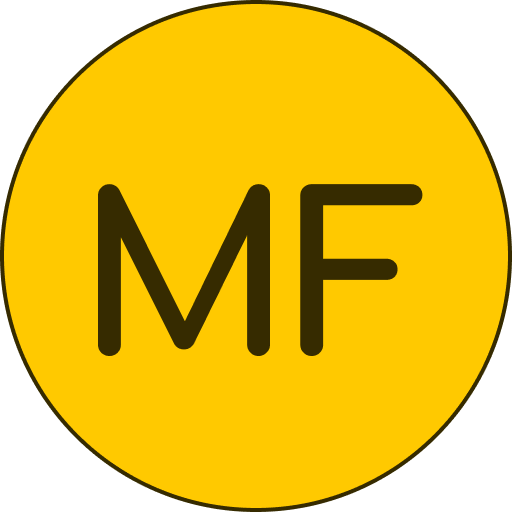
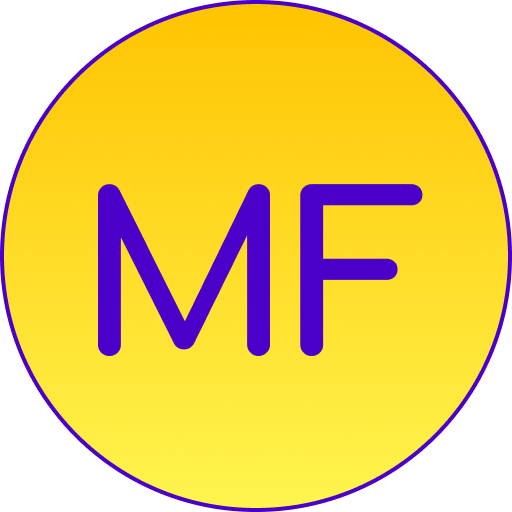
refactor(Home): update theme colors and typography

diff --git a/src/components/Home/Home.styles.js b/src/components/Home/Home.styles.js
@@ -1,31 +1,34 @@
 import { makeStyles } from '@material-ui/styles'
 
 export default makeStyles(
-  () => ({
-    root: {
-      position: 'relative',
-    },
-    background: {
-      position: 'absolute',
-      margin: 0,
-      zIndex: -1,
-    },
-    profilePicContainer: {
-      paddingTop: 10,
-    },
-    profilePic: {
-      minWidth: '167px',
-      maxWidth: '100%',
-      borderRadius: '50%',
-      border: '2px solid transparent',
-      backgroundOrigin: 'border-box',
-      backgroundClip: 'content-box, border-box',
-      backgroundImage:
-        'linear-gradient(white, white), linear-gradient(120deg, #D1A603, #F8C404)',
-    },
-    personNameContainer: {
-      marginTop: 40,
-    },
-  }),
+  theme => {
+    const primaryColor = theme.palette.primary.main
+    const secondaryColor = theme.palette.secondary.main
+    return {
+      root: {
+        position: 'relative',
+      },
+      background: {
+        position: 'absolute',
+        margin: 0,
+        zIndex: -1,
+      },
+      profilePicContainer: {
+        paddingTop: theme.spacing(1),
+      },
+      profilePic: {
+        minWidth: '167px',
+        maxWidth: '100%',
+        borderRadius: '50%',
+        border: `${theme.shape.borderRadius * 0.5}px solid transparent`,
+        backgroundOrigin: 'border-box',
+        backgroundClip: 'content-box, border-box',
+        backgroundImage: `linear-gradient(white, white), linear-gradient(120deg, ${primaryColor}, ${secondaryColor})`,
+      },
+      personNameContainer: {
+        marginTop: theme.spacing(7),
+      },
+    }
+  },
   { name: 'Home' },
 )

diff --git a/gatsby-config.js b/gatsby-config.js
@@ -1,8 +1,18 @@
 module.exports = {
-  plugins: [`gatsby-theme-material-ui`],
   siteMetadata: {
-    title: `Mateus Felix Profile`,
-    description: `Kick off your next, great Gatsby project with this default starter. This barebones starter ships with the main Gatsby configuration files you might need.`,
-    author: `@gatsbyjs`,
+    title: 'Mateus Felix Web Developer',
+    description: 'Profile page for Mateus Felix',
+    author: '@thebinaryfelix - Mateus Felix',
   },
+  plugins: [
+    `gatsby-theme-material-ui`,
+    {
+      resolve: 'gatsby-plugin-web-font-loader',
+      options: {
+        google: {
+          families: ['Comfortaa'],
+        },
+      },
+    },
+  ],
 }

diff --git a/src/gatsby-theme-material-ui-top-layout/theme.js b/src/gatsby-theme-material-ui-top-layout/theme.js
@@ -1,12 +1,23 @@
 import { createMuiTheme } from '@material-ui/core/styles'
 
 export default createMuiTheme({
+  spacing: 8,
+  typography: {
+    fontSize: 12,
+    fontFamily: ['Comfortaa', 'sans-serif'].join(','),
+  },
   palette: {
     primary: {
-      main: '#362B00',
+      light: '#fff54f',
+      main: '#ffc300',
+      dark: '#c79300',
+      contrastText: '#000',
     },
     secondary: {
-      main: '#FFC900',
+      light: '#c14eff',
+      main: '#8800ff',
+      dark: '#4b00ca',
+      contrastText: '#fff',
     },
     background: {
       default: '#FFFFFF',

diff --git a/src/components/Home/Home.js b/src/components/Home/Home.js
@@ -27,7 +27,7 @@ const Home = () => {
         </Grid>
         <Grid item container className={classes.personNameContainer} xs={12}>
           <Grid item xs={6}>
-            <Typography variant="h3" align="right" color="primary">
+            <Typography variant="h3" align="right" color="secondary">
               Mateus Félix
             </Typography>
           </Grid>
